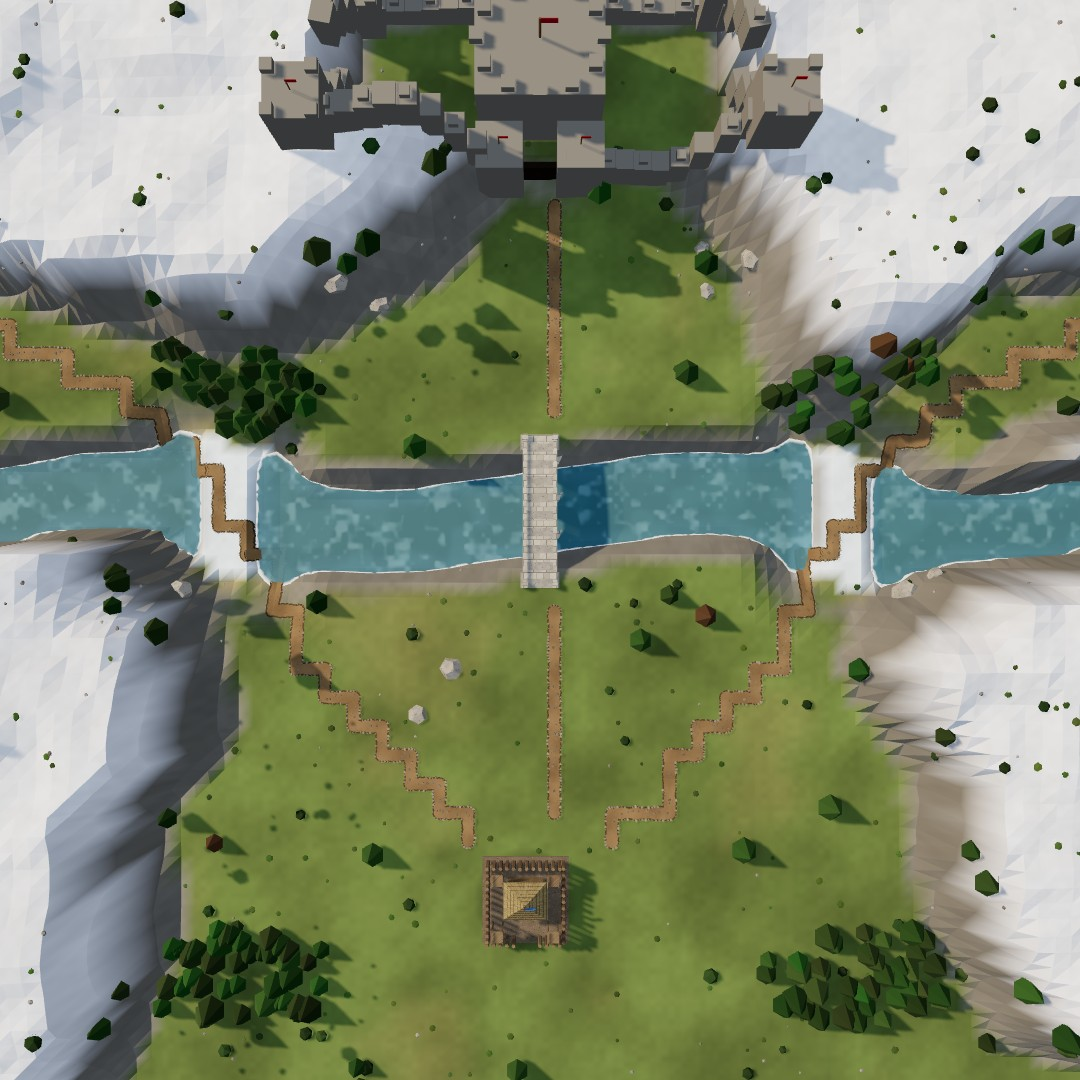
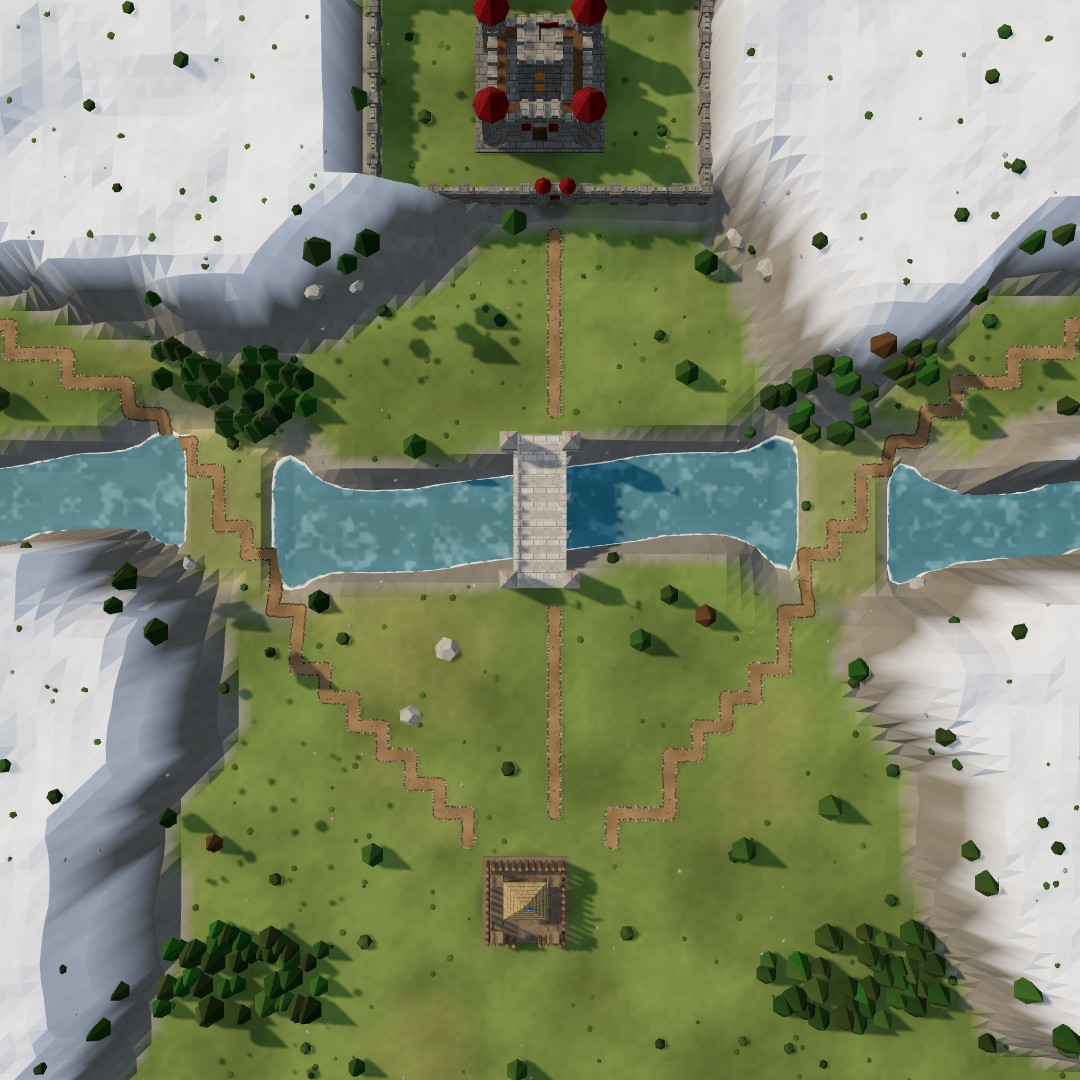
Boss stages: 7 nights, 10-minute first day; enemy forts from darkened castle/wall/gate models; raiders round both sides of the keep; grand bridge and plain land crossings on Warlord's Hold; bosses in the gallery
Claude-Session: https://claude.ai/code/session_01AE8sRRsVdpH9ETfQvtppox

diff --git a/index.html b/index.html
@@ -658,19 +658,24 @@ const MAP_RULES = {
                     { spear: [5, 6, 3], sword: [3, 5, 1], archer: [4, 4], xbow: [3, 1], lancer: [5, 4], rider: [4, 3, 1], ram: [1], ballista: [1] },
                     { spear: [5, 8, 4], sword: [3, 5, 3], archer: [4, 4, 1], xbow: [3, 3], lancer: [5, 4, 3], rider: [4, 4, 3], catapult: [0, 1], ram: [0, 1] }],
             day: [420, 120, 120, 120, 120], spawnGap: .8, res: { gold: 50, wood: 30, stone: 0, food: 30 } },
-  // Raider Keep (stage 11, boss, an 80 m map): everything pours out of the keep's gate; the Raider Chief at the tail of night 5
+  // Raider Keep (stage 11, boss, an 80 m map): seven nights after a 10-minute first day (Jack); round both sides of the keep and out of its gate;
+  // the Raider Chief at the tail of night 7
   keep: { waves: [{ spear: [8, 4], sword: [4, 2], archer: [4, 1], lancer: [3] }, { spear: [8, 6], sword: [4, 3], archer: [4, 2], xbow: [3, 1], lancer: [3, 1], rider: [2] },
                   { spear: [6, 7, 2], sword: [4, 4, 1], archer: [4, 3], xbow: [3, 2], lancer: [4, 2], rider: [2, 1], ram: [1], ballista: [1] },
                   { spear: [5, 8, 3], sword: [3, 5, 2], archer: [4, 4, 1], xbow: [3, 3], lancer: [4, 3], rider: [3, 2], catapult: [1], ram: [0, 1], ballista: [0, 1] },
-                  { spear: [4, 8, 5], sword: [3, 5, 4], archer: [3, 4, 3], xbow: [3, 3, 2], lancer: [4, 3, 2], rider: [3, 3, 2], catapult: [0, 1], ram: [0, 1], ballista: [0, 0, 1], chief: [0, 0, 1] }],
-          day: [420, 120, 120, 120, 120], spawnGap: .8, res: { gold: 50, wood: 30, stone: 0, food: 30 } },
+                  { spear: [4, 8, 5], sword: [3, 5, 4], archer: [3, 4, 3], xbow: [3, 3, 2], lancer: [4, 3, 2], rider: [3, 3, 2], catapult: [0, 1], ram: [0, 1], ballista: [0, 0, 1] },
+                  { spear: [3, 8, 6], sword: [2, 5, 5], archer: [3, 4, 4], xbow: [2, 3, 3], lancer: [3, 3, 3], rider: [2, 3, 3], catapult: [0, 1, 1], ram: [0, 1, 1], ballista: [0, 1, 1] },
+                  { spear: [2, 8, 8], sword: [2, 5, 6], archer: [2, 4, 5], xbow: [2, 3, 4], lancer: [2, 3, 4], rider: [2, 3, 4], catapult: [0, 1, 1], ram: [0, 1, 1], ballista: [0, 1, 1], chief: [0, 0, 1] }],
+          day: [600, 120, 120, 120, 120, 120, 120], spawnGap: .8, res: { gold: 50, wood: 30, stone: 0, food: 30 } },
   // Warlord's Hold (stage 12, final boss, 80 m): out of the hold's gate, from night 3 the west pass, from night 4 the east pass;
-  // the Warlord and his mounted guard (tier-3 horse swords) on the last night
+  // seven nights after a 10-minute first day (Jack); the Warlord and his mounted guard (tier-3 horse swords) on night 7
   hold: { waves: [{ spear: [8, 5], sword: [4, 3], archer: [4, 2], xbow: [2], lancer: [3, 1] }, { spear: [8, 7], sword: [4, 4], archer: [4, 3], xbow: [3, 1], lancer: [4, 1], rider: [2, 1], ram: [1] },
                   { spear: [6, 8, 3], sword: [4, 5, 2], archer: [4, 4, 1], xbow: [3, 3], lancer: [4, 3], rider: [3, 2], ballista: [1], catapult: [1] },
                   { spear: [5, 8, 4], sword: [3, 5, 3], archer: [4, 4, 2], xbow: [3, 3, 1], lancer: [4, 3, 1], rider: [3, 3, 1], catapult: [0, 1], ram: [0, 1], ballista: [0, 1] },
-                  { spear: [4, 8, 6], sword: [3, 6, 5], archer: [3, 5, 3], xbow: [3, 3, 2], lancer: [4, 4, 2], rider: [2, 3, 6], catapult: [0, 1, 1], ram: [0, 0, 1], ballista: [0, 0, 1], warlord: [0, 0, 1] }],
-          day: [420, 120, 120, 120, 120], spawnGap: .75, res: { gold: 50, wood: 30, stone: 0, food: 30 } },
+                  { spear: [4, 8, 6], sword: [3, 6, 5], archer: [3, 5, 3], xbow: [3, 3, 2], lancer: [4, 4, 2], rider: [2, 3, 2], catapult: [0, 1, 1], ram: [0, 0, 1], ballista: [0, 0, 1] },
+                  { spear: [3, 8, 8], sword: [2, 6, 6], archer: [3, 5, 4], xbow: [2, 3, 3], lancer: [3, 4, 3], rider: [2, 3, 3], catapult: [0, 1, 1], ram: [0, 1, 1], ballista: [0, 1, 1] },
+                  { spear: [2, 8, 10], sword: [2, 6, 7], archer: [2, 5, 5], xbow: [2, 3, 4], lancer: [2, 4, 4], rider: [2, 3, 8], catapult: [0, 1, 2], ram: [0, 1, 1], ballista: [0, 1, 1], warlord: [0, 0, 1] }],
+          day: [600, 120, 120, 120, 120, 120, 120], spawnGap: .75, res: { gold: 50, wood: 30, stone: 0, food: 30 } },
 };
 // campaign stops' own maps: the buildings each one has (the stop's and every earlier stop's), and where it sits on the overview
 const CAMP_MAPS = {
@@ -916,9 +921,9 @@ function plainsHeight(x, z) {
 const inPoly = (P, x, z) => { let c = false; for (let i = 0, j = P.length - 1; i < P.length; j = i++) if ((P[i][1] > z) !== (P[j][1] > z) && x < (P[j][0] - P[i][0]) * (z - P[i][1]) / (P[j][1] - P[i][1]) + P[i][0]) c = !c; return c; };
 // Raider Keep (stage 11, an 80 m map): the raiders' keep on a rocky rise at the top behind a dry ditch (open at the gate), two roads
 // from its gate through a burned village and dead woods to the town at the bottom; reddish ground in the north, scorched in the middle
-const KEEP_POLY = [[30, 11], [40, 7], [50, 11], [52, 20], [40, 24], [28, 20]], KEEP_GATE = [40, 24];
+const KEEP_POLY = [[28, 8], [52, 8], [52, 24], [28, 24]], KEEP_GATE = [41, 23];   // the fort's cells a 14–25, b 4–11; its gate cell (20, 11)
 const KEEP_DITCH = smoothPts([[21, 23], [30, 28], [40, 29.5], [50, 28], [59, 23]]);
-const KEEP_ROADS = [smoothPts([[40, 25], [39, 33], [33, 40], [30, 47], [33, 54], [38, 59], [40, 62]]), smoothPts([[40, 25], [45, 33], [52, 38], [56, 47], [52, 54], [46, 59], [42, 62]])];
+const KEEP_ROADS = [smoothPts([[41, 25], [39, 33], [33, 40], [30, 47], [33, 54], [38, 59], [40, 62]]), smoothPts([[41, 25], [45, 33], [52, 38], [56, 47], [52, 54], [46, 59], [42, 62]])];
 const KEEP_RUINS = [[25, 40], [28, 37], [56, 38], [60, 41], [42, 42], [45, 45]];
 const KEEP_RED = new THREE.Color('#7d4d3c'), KEEP_ASH = new THREE.Color('#6b5d45');
 function keepHeight(x, z) {
@@ -931,23 +936,22 @@ function keepHeight(x, z) {
 }
 // Warlord's Hold (stage 12, final boss, 80 m): snowy mountains round the north and both sides, the hold on a crag at the top, a river
 // across the middle (a stone bridge on the gate's road, frozen crossings where the two mountain passes come down), pines on the slopes
-const HOLD_POLY = [[28, 4.5], [52, 4.5], [54, 15], [26, 15]], HOLD_GATE = [40, 15];
+const HOLD_POLY = [[28, 2], [52, 2], [52, 18], [28, 18]], HOLD_GATE = [41, 17];   // the hold's cells a 14–25, b 1–8; its gate cell (20, 8)
 const HOLD_MTNS = [[14, 12, 20, 16, 1], [66, 12, 20, 16, 2], [6, 52, 11, 23, 3], [74.5, 52, 11, 23, 4]];
 const HOLD_RIVER = smoothPts([[-1, 38], [12, 36], [26, 40], [40, 38], [54, 36], [66, 40], [81, 38]]);
 const HOLD_PASSES = [smoothPts([[-1, 25], [8, 28], [15, 33], [20, 42], [24, 49], [30, 56], [35, 61]]), smoothPts([[81, 25], [72, 28], [65, 33], [60, 42], [56, 49], [50, 56], [45, 61]])];
-const HOLD_ROADS = [[[40, 16], [40, 33]], [[40, 43], [40, 60]], ...HOLD_PASSES];
-const HOLD_ICE = [17.6, 61.8],   // where the two passes cross the river
-  ICE_C = new THREE.Color('#dfe9ee');
+const HOLD_ROADS = [[[41, 19], [40.5, 26], [40, 33]], [[40, 43], [40, 60]], ...HOLD_PASSES];
+const HOLD_ICE = [17.6, 61.8];   // where the two passes cross the river: a plain land crossing (a ford of grass and earth)
 const holdMtn = (x, z) => Math.max(...HOLD_MTNS.map(([cx, cz, rx, rz, sd]) => 1 - sstep(.75, 1.05, blobD(x, z, [cx, cz, rx, rz], sd)))) * sstep(3, 6, Math.min(...HOLD_PASSES.map(p => polyDist(p, x, z))));
 const holdOpen = (x, z) => holdMtn(x, z) < .5;
 const holdRiverZ = x => { const P = HOLD_RIVER; for (let i = 0; i < P.length - 1; i++) if (x >= P[i][0] && x <= P[i + 1][0]) return lerp(P[i][1], P[i + 1][1], (x - P[i][0]) / (P[i + 1][0] - P[i][0])); return 38; };
 function holdHeight(x, z) {
   let h = 2.4 + 1.3 * fbm(x * .05, z * .05);
   h += holdMtn(x, z) * (9 + 12 * fbm(x * .07 + 5, z * .07 + 9));
-  h += 3.2 * (1 - sstep(.4, 1.1, blobD(x, z, [40, 9.5, 15, 9.5], 6)));
+  h += 3.2 * (1 - sstep(.4, 1.1, blobD(x, z, [40, 10, 16, 11], 6)));
   if (inPoly(HOLD_POLY, x, z)) h = 6 + .1 * fbm(x * .3, z * .3);
   h = lerp(3 + (h - 3) * .35, h, sstep(6, 11, Math.hypot(x - KX, z - KZ)));
-  const fd = Math.min(...HOLD_ICE.map(f => Math.abs(x - f))), ice = sstep(3, 1.6, fd), ramp = sstep(7.5, 3.5, fd);
+  const fd = Math.min(...HOLD_ICE.map(f => Math.abs(x - f))), ice = sstep(4.2, 2.6, fd), ramp = sstep(9, 4.5, fd);
   const d = polyDist(HOLD_RIVER, x, z), river = lerp(-1.3, h, lerp(sstep(2.2, 4.6, d), sstep(2.4, 9, d), ramp));
   return d < 5 ? Math.max(river, lerp(river, .6 + .05 * vnoise(x * .9, z * .9), ice)) : river;
 }
@@ -1012,7 +1016,7 @@ const bridgeCell = new Uint8Array(N_MAX * N_MAX), BRIDGE_RISE = .45, DECK_W = 1.
 // where each map's bridges cross: a start point and a direction, marched along until the river is crossed
 function bridgeRays() {
   if (MAP === 'pass' || MAP === 'vale' || MAP === 'cross' || MAP === 'watch' || MAP === 'dune' || MAP === 'crag' || MAP === 'plains' || MAP === 'keep') return [];
-  if (MAP === 'hold') { const z0 = holdRiverZ(40); return [{ ox: 40, oz: z0 - 9, dx: 0, dz: 1, stone: true }]; }
+  if (MAP === 'hold') { const z0 = holdRiverZ(40); return [{ ox: 40, oz: z0 - 9, dx: 0, dz: 1, stone: true, grand: true, w: 3.2 }]; }
   if (MAP === 'mere') return [MERE_BRIDGE];
   if (MAP === 'ford') return [{ ox: FORD_BRIDGE_X, oz: fordRiverZ(FORD_BRIDGE_X) - 10, dx: 0, dz: 1, stone: true }];
   if (MAP === 'bend') return BEND_BRIDGES.map(([ox, oz, dx, dz]) => ({ ox, oz, dx, dz }));
@@ -1038,7 +1042,7 @@ function genBridges() {
     while (a > sA - 6 && !flat(a)) a -= .2;
     while (c < sB + 6 && !flat(c)) c += .2;
     a -= .3; c += .3;
-    const b = { x0: ray.ox + ray.dx * a, z0: ray.oz + ray.dz * a, dx: ray.dx, dz: ray.dz, L: c - a, ends: new Set(), stone: !!ray.stone };
+    const b = { x0: ray.ox + ray.dx * a, z0: ray.oz + ray.dz * a, dx: ray.dx, dz: ray.dz, L: c - a, ends: new Set(), stone: !!ray.stone, grand: !!ray.grand, w: ray.w };
     b.ex = b.x0 + b.dx * b.L; b.ez = b.z0 + b.dz * b.L;   // its far (here: southern) end
     b.h0 = hAt(b.x0, b.z0) + .05; b.h1 = hAt(b.x0 + b.dx * b.L, b.z0 + b.dz * b.L) + .05;
     b.mx = b.x0 + b.dx * b.L / 2; b.mz = b.z0 + b.dz * b.L / 2;
@@ -1050,7 +1054,7 @@ function genBridges() {
   }
 }
 const bridgeT = (b, x, z) => ((x - b.x0) * b.dx + (z - b.z0) * b.dz) / b.L, bridgeW = (b, x, z) => (z - b.z0) * b.dx - (x - b.x0) * b.dz;
-const onDeck = (b, x, z) => { const t = bridgeT(b, x, z); return t >= 0 && t <= 1 && Math.abs(bridgeW(b, x, z)) < DECK_W / 2; };
+const onDeck = (b, x, z) => { const t = bridgeT(b, x, z); return t >= 0 && t <= 1 && Math.abs(bridgeW(b, x, z)) < (b.w || DECK_W) / 2; };
 function deckY(b, t) { t = clamp(t, 0, 1); return lerp(b.h0, b.h1, t) + BRIDGE_RISE * Math.sin(Math.PI * t); }
 // ground height for a unit: the deck where it stands on one, else the terrain
 function walkY(x, z) { const i = bridgeCell[cellAt(x, z)], h = hAt(x, z); if (!i) return h; const b = bridges[i - 1]; return onDeck(b, x, z) ? Math.max(h, deckY(b, bridgeT(b, x, z))) : h; }
@@ -1197,7 +1201,7 @@ function recolor() {
     tmpC.lerp(C.sand, sstep(.8, .2, h)); tmpC.lerp(C.bed, sstep(-.1, -.8, h));
     if (MAP === 'dune') { const od = oasisD(i, j); tmpC.lerp(C.dry, sstep(.68, .95, od) * .75); tmpC.lerp(DUNE_SAND, sstep(.86, 1.14, od) * .92); for (const m of DUNE_MESAS) tmpC.lerp(DUNE_ROCK, sstep(1.12, .95, ellD(i, j, m)) * .8); }   // sand beyond the oasis; red-brown rock mesas
     if (MAP === 'keep') { tmpC.lerp(KEEP_ASH, sstep(62, 40, j) * .55); tmpC.lerp(KEEP_RED, sstep(40, 12, j) * .7); }   // red north, scorched middle
-    if (MAP === 'hold') { tmpC.lerp(C.dry, .2); const fd = Math.min(...HOLD_ICE.map(f => Math.abs(i - f))); if (fd < 3 && polyDist(HOLD_RIVER, i, j) < 4.5) tmpC.lerp(ICE_C, .85); }   // cold grass, the frozen crossings
+    if (MAP === 'hold') tmpC.lerp(C.dry, .2);   // cold grass
     if (MAP === 'mere') tmpC.lerp(MERE_C, marshW(i, j) * (.7 + .3 * fbm(i * .3, j * .3)));   // the marsh: brownish olive, patchy
     if (MAP === 'plains') tmpC.lerp(PLAINS_C, .35);              // the plains: a fresh, lighter green
     if (MAP === 'crag') tmpC.lerp(C.rock, (1 - sstep(.75, 1.05, blobD(i, j, CRAG_ROCK, 2))) * .85);   // the grey crag
@@ -2537,7 +2541,7 @@ function makeBridge(b) {
 // an old stone bridge (Stonebridge): a paved deck on a solid stone span, low parapets along both sides, round piers standing in the
 // water with cutwaters, stone landings on each bank; the same deck line (deckY) the units walk on
 function makeStoneBridge(b) {
-  const g = new THREE.Group(), L = b.L, W = DECK_W;
+  const g = new THREE.Group(), L = b.L, W = b.w || DECK_W;
   const yAt = z => deckY(b, (z + L / 2) / L), wx = z => b.mx + b.dx * z, wz = z => b.mz + b.dz * z;
   const piece = (z0, z1, w, h, dy, m, x = 0) => {      // a block following the deck from z0 to z1, its top dy above the deck
     const y0 = yAt(z0), y1 = yAt(z1), len = Math.hypot(z1 - z0, y1 - y0) + .02, o = box(w, h, len, m, x, (y0 + y1) / 2 + dy - h / 2, (z0 + z1) / 2);
@@ -2560,6 +2564,14 @@ function makeStoneBridge(b) {
     const top = yAt(z) - .5, bot = gy - .4, ph = top - bot;
     g.add(box(W + .3, ph, .7, M.stone2, 0, bot + ph / 2, z));
     const cw = cyl(.5, .5, ph, 4, M.stone2, 0, bot + ph / 2, z); cw.scale.set(1.25, 1, .5); cw.rotation.y = Math.PI / 4; cw.position.x = (W / 2 + .2); g.add(cw);
+  }
+  if (b.grand) {                                   // the Warlord's bridge: tall towers at both ends with red flags, merlons on the parapets
+    for (const s of [-1, 1]) for (const x of [-1, 1]) {
+      const z = s * (L / 2 - .6), y = yAt(z), tw = box(1.1, 3.2, 1.1, M.stone2, x * (W / 2 + .5), y + 1.4, z); g.add(tw);
+      const cap = new THREE.Mesh(new THREE.ConeGeometry(.85, 1.1, 4), M.plainStone); cap.position.set(x * (W / 2 + .5), y + 3.55, z); cap.rotation.y = Math.PI / 4; g.add(cap);
+      g.add(cyl(.035, .035, 1.2, 5, M.timber, x * (W / 2 + .5), y + 4.6, z)); const f = box(.03, .34, .55, raiderRed, x * (W / 2 + .5), y + 4.95, z - .28); g.add(f);
+    }
+    for (let z = -L / 2 + 1.4; z < L / 2 - 1.3; z += .9) for (const x of [-1, 1]) g.add(box(.26, .2, .34, M.stone2, x * (W / 2 + .1), yAt(z) + .74, z));
   }
   g.traverse(o => { if (o.isMesh) o.castShadow = o.receiveShadow = true; });
   g.position.set(b.mx, 0, b.mz); g.rotation.y = Math.atan2(b.dx, b.dz);
@@ -4694,9 +4706,9 @@ function edgePoint() {
   if (MAP === 'keep' || MAP === 'hold') {
     // Raider Keep: everyone out of the keep's gate; Warlord's Hold: out of the hold's gate, from night 3 the west pass, from night 4 the east
     const r = Math.random(), W = PH.wave;
-    const side = MAP === 'keep' ? 'g' : (W >= 4 && r < .25 ? 'e' : W >= 3 && r < .5 ? 'w' : 'g');
+    const side = MAP === 'keep' ? (r < .4 ? 'kl' : r < .8 ? 'kr' : 'g') : (W >= 4 && r < .25 ? 'e' : W >= 3 && r < .5 ? 'w' : 'g');   // the keep: round its west and east sides (Jack), a few out of the gate
     const G = MAP === 'keep' ? KEEP_GATE : HOLD_GATE;
-    const pick = side === 'w' ? () => [1.2, 24 + Math.random() * 2.5] : side === 'e' ? () => [SIZE - 1.2, 24 + Math.random() * 2.5] : () => [G[0] - 1.5 + Math.random() * 3, G[1] + 2 + Math.random() * 1.5];
+    const pick = side === 'kl' ? () => [12 + Math.random() * 4, 14 + Math.random() * 6] : side === 'kr' ? () => [64 + Math.random() * 4, 14 + Math.random() * 6] : side === 'w' ? () => [1.2, 24 + Math.random() * 2.5] : side === 'e' ? () => [SIZE - 1.2, 24 + Math.random() * 2.5] : () => [G[0] - 1.5 + Math.random() * 3, G[1] + 2 + Math.random() * 1.5];
     for (const needRoute of [true, false]) for (let n = 0; n < 60; n++) {
       const [x, z] = pick();
       if (canStand(x, z, 2) && cellPass(cellAt(x, z), 2) && (!needRoute || !dp || findPath(x, z, dp.x, dp.z, 2))) return { x, z };
@@ -6526,49 +6538,42 @@ function placeRuin() {
 // gate facing the town, red flags, the burned village's blackened ruins) and the Warlord's hold (curtain walls with merlons, four
 // corner towers, a tall keep, a gatehouse, red flags)
 let bossMesh = null;
-const charM = mat('#2b231d'), keepWoodM = mat('#4e3a2a'), holdStoneM = mat('#77736b');
-function redFlag(g, x, y, z, k = 1) { g.add(cyl(.04 * k, .04 * k, 1.6 * k, 5, M.timber, x, y + .8 * k, z)); const f = box(.6 * k, .38 * k, .03, raiderRed, x + .3 * k, y + 1.4 * k, z); f.castShadow = true; g.add(f); }
+const charM = mat('#2b231d');
+// the enemy forts are the game's own castle, walls and gate (Jack): a ring of wall cells with a gate in the south side and the castle
+// in the yard, every material darkened and the town's blue turned the raiders' red (darkFort), so they never read as the player's
+const FORT = { keep: { a0: 14, a1: 25, b0: 4, b1: 11, gate: 20, tier: 1, castle: 2, k: 1.3, cx: 40, cz: 16 },
+  hold: { a0: 14, a1: 25, b0: 1, b1: 8, gate: 20, tier: 3, castle: 3, k: 1.45, cx: 40, cz: 9.5 } };
+const darkMats = new Map();
+function darkFort(g) {
+  g.traverse(o => {
+    if (!o.isMesh || Array.isArray(o.material)) return;
+    let m = darkMats.get(o.material);
+    if (!m) {
+      m = o.material.clone(); m.onBeforeCompile = o.material.onBeforeCompile; if (o.material.customProgramCacheKey) m.customProgramCacheKey = o.material.customProgramCacheKey;
+      const c = m.color; if (c) { if (c.b > c.r * 1.3 && c.b > c.g) c.set('#6a1612'); else c.multiplyScalar(.48); }
+      darkMats.set(o.material, m);
+    }
+    o.material = m; o.castShadow = o.receiveShadow = true;
+  });
+  return g;
+}
 function placeBossScenery() {
   if (bossMesh) { scene.remove(bossMesh); bossMesh = null; }
   if (MAP !== 'keep' && MAP !== 'hold') return;
-  const g = new THREE.Group(), Y = (x, z) => hAt(x, z);
-  const P = MAP === 'keep' ? KEEP_POLY : HOLD_POLY, Gt = MAP === 'keep' ? KEEP_GATE : HOLD_GATE;
-  for (let i = 0; i < P.length; i++) {
-    const [ax, az] = P[i], [bx, bz] = P[(i + 1) % P.length], L = Math.hypot(bx - ax, bz - az);
-    for (let t = 0; t <= L; t += MAP === 'keep' ? .42 : 1.2) {
-      const x = ax + (bx - ax) * t / L, z = az + (bz - az) * t / L;
-      if (Math.hypot(x - Gt[0], z - Gt[1]) < 1.8) continue;   // the gate's gap
-      if (MAP === 'keep') { const hgt = 2.3 + hash(x * 3, z * 5) * .5, p = cyl(.21, .23, hgt, 6, keepWoodM, x, Y(x, z) + hgt / 2 - .3, z); p.castShadow = true; g.add(p); }
-      else { const w = box(1.3, 3.6, 1.3, holdStoneM, x, Y(x, z) + 1.5, z); w.rotation.y = -Math.atan2(bz - az, bx - ax); g.add(w); if (Math.round(t / 1.2) % 2 === 0) g.add(box(.6, .6, .6, holdStoneM, x, Y(x, z) + 3.6, z)); }
-    }
-    if (MAP === 'hold') { const tw = box(3.2, 6, 3.2, holdStoneM, ax, Y(ax, az) + 2.7, az); g.add(tw); for (const [dx, dz] of [[-1, -1], [1, -1], [-1, 1], [1, 1]]) g.add(box(.7, .7, .7, holdStoneM, ax + dx * 1.25, Y(ax, az) + 6, az + dz * 1.25)); redFlag(g, ax, Y(ax, az) + 5.7, az); }
-    else { const tw = box(2, .2, 2, keepWoodM, ax, Y(ax, az) + 2.2, az); g.add(tw); for (const [dx, dz] of [[-1, -1], [1, -1], [-1, 1], [1, 1]]) g.add(cyl(.12, .12, 2.4, 5, keepWoodM, ax + dx * .85, Y(ax, az) + 1.1, az + dz * .85)); redFlag(g, ax, Y(ax, az) + 2.3, az, .8); }
+  const F = FORT[MAP], g = new THREE.Group(), Y = (x, z) => hAt(x, z);
+  const on = (a, b) => a >= F.a0 && a <= F.a1 && b >= F.b0 && b <= F.b1 && (a === F.a0 || a === F.a1 || b === F.b0 || b === F.b1);
+  for (let b = F.b0; b <= F.b1; b++) for (let a = F.a0; a <= F.a1; a++) {
+    if (!on(a, b)) continue;
+    const mask = (on(a, b - 1) ? 1 : 0) | (on(a + 1, b) ? 2 : 0) | (on(a, b + 1) ? 4 : 0) | (on(a - 1, b) ? 8 : 0), x = (a + .5) * CELL, z = (b + .5) * CELL;
+    const m = makeModel(a === F.gate && b === F.b1 ? 'gate' : 'wall', F.tier, false, mask, 0); m.position.set(x, Y(x, z), z); g.add(m);
   }
-  const [gx, gz] = Gt;
-  if (MAP === 'keep') {
-    for (const sx of [-1, 1]) g.add(cyl(.3, .3, 3.2, 6, keepWoodM, gx + sx * 1.6, Y(gx, gz) + 1.3, gz));
-    g.add(box(3.6, .35, .4, keepWoodM, gx, Y(gx, gz) + 2.8, gz));
-    const cx = 40, cz = 15, y = Y(cx, cz);
-    g.add(box(5, 5.5, 5, holdStoneM, cx, y + 2.6, cz)); g.add(box(5.8, .5, 5.8, keepWoodM, cx, y + 5.5, cz));
-    const rf = new THREE.Mesh(new THREE.ConeGeometry(4.3, 2.4, 4), charM); rf.position.set(cx, y + 6.9, cz); rf.rotation.y = Math.PI / 4; g.add(rf);
-    redFlag(g, cx, y + 8, cz, 1.4);
-    g.add(box(7, 2.8, 4, keepWoodM, cx - 6.5, Y(cx - 6.5, cz + 3) + 1.3, cz + 3));
-    const hr = new THREE.Mesh(new THREE.ConeGeometry(4.6, 1.6, 4), charM); hr.position.set(cx - 6.5, Y(cx - 6.5, cz + 3) + 3.4, cz + 3); hr.rotation.y = Math.PI / 4; hr.scale.z = .6; g.add(hr);
-    g.add(box(2.4, 1.2, .4, M.dark, gx, Y(gx, gz) + .6, gz - 2.2));
-    for (const [x, z] of KEEP_RUINS) {   // the burned village: blackened stubs of walls and a fallen beam
-      const yy = Y(x, z);
-      for (let i = 0; i < 4; i++) { const a = i * Math.PI / 2 + .3, h = .5 + hash(x + i, z) * 1.1, w = box(1.7, h, .22, charM, x + Math.cos(a) * .85, yy + h / 2 - .1, z + Math.sin(a) * .85); w.rotation.y = -a + Math.PI / 2; g.add(w); }
-      const bm = box(2, .18, .18, charM, x, yy + .4, z); bm.rotation.set(.3, hash(x, z) * 3, .4); g.add(bm);
-    }
-  } else {
-    for (const sx of [-1, 1]) { const tw = box(3, 7, 3, holdStoneM, gx + sx * 2.6, Y(gx, gz) + 3, gz); g.add(tw); redFlag(g, gx + sx * 2.6, Y(gx, gz) + 6.5, gz); }
-    g.add(box(2.4, 2.8, .4, M.dark, gx, Y(gx, gz) + 1.4, gz + .2));
-    const cx = 40, cz = 9.5, y = Y(cx, cz);
-    g.add(box(8, 9, 7, holdStoneM, cx, y + 4.3, cz));
-    for (let i = 0; i < 12; i++) { const a = i / 12 * Math.PI * 2; g.add(box(.8, .8, .8, holdStoneM, cx + Math.cos(a) * 3.9, y + 9.2, cz + Math.sin(a) * 3.4)); }
-    redFlag(g, cx, y + 8.8, cz, 1.8);
+  const K = makeModel('castle', F.castle, true, 0, 0); K.scale.setScalar(F.k); K.position.set(F.cx, Y(F.cx, F.cz), F.cz); g.add(K);
+  darkFort(g);
+  if (MAP === 'keep') for (const [x, z] of KEEP_RUINS) {   // the burned village: blackened stubs of walls and a fallen beam
+    const yy = Y(x, z);
+    for (let i = 0; i < 4; i++) { const a = i * Math.PI / 2 + .3, h = .5 + hash(x + i, z) * 1.1, w = box(1.7, h, .22, charM, x + Math.cos(a) * .85, yy + h / 2 - .1, z + Math.sin(a) * .85); w.rotation.y = -a + Math.PI / 2; g.add(w); }
+    const bm = box(2, .18, .18, charM, x, yy + .4, z); bm.rotation.set(.3, hash(x, z) * 3, .4); g.add(bm);
   }
-  g.traverse(o => { if (o.isMesh) { o.castShadow = true; o.receiveShadow = true; } });
   scene.add(g); bossMesh = g;
 }
 // paths laid along polylines, cell by cell, diagonal steps joined so they stay connected
@@ -6811,6 +6816,9 @@ function buildGallery() {
     { name: 'Rider', kit: 1, cav: 1 }, { name: 'Lancer', kit: 2, cav: 1 }, { name: 'Knight', kit: 3, cav: 1 }]);
   // raiders by tier: the same look for every kind (plain red shirt; red gambeson and iron helm; mail, red surcoat, great helm)
   for (const rt of [1, 2, 3]) people(`Raiders ${rt}`, ['spear', 'sword', 'archer', 'xbow', 'lancer', 'rider'].map(k => ({ name: `${RAIDER_NAME[k]} ${rt}`, raider: k, rt })));
+  // the bosses, drawn at their own size
+  people('Bosses', [{ name: 'Raider Chief', raider: 'chief', rt: 3 }, { name: 'Warlord', raider: 'warlord', rt: 3 }]);
+  gPeople.slice(-2).forEach(p => p.g.scale.setScalar(ENEMY[p.raider].boss));
   // raider siege engines by tier, each pushed by two of its crew
   row('Raider siege', 3, zc => ['ballista', 'catapult', 'ram'].forEach((k, j) => [1, 2, 3].forEach(rt => {
     const i = j * 3 + rt - 1, x = 6 + i * 4.4, p = makeRaider(k, rt);

diff --git a/CLAUDE.md b/CLAUDE.md
@@ -79,9 +79,9 @@ The whole game is currently one self-contained file: `index.html` (~165 KB, thre
 - **Horsefields** (`MAP` 'plains', Stage 10; from `design/stages/stage10-horsefields.svg`): open plains (`plainsHeight`: gentle, two low swells; grass tinted fresh `PLAINS_C`), a stream across the south-west corner (`PLAINS_STREAM`), three copses and the odd lone tree, little stone; the castle in the middle (`KX/KZ` 28,28) with straight roads out to the north, west and east (`PLAINS_ROADS`). Raiders down the north road (x 24.5–31.5); from night 2 some from the west edge, from night 3 some from the east edge too (z 23.5–29.5; `edgePoint` splits 30% east, 30% west, 40% north once all three are open); horsemen in numbers every night. Rules (`MAP_RULES.plains`): 5 nights, spawn gap .8 s, start gold 50 wood 30 stone 0 food 30. Buildings: Meadowmere's plus the stables (`prefer: { barracks: 'stables' }`).
 - **Stages 7–10** all have a 7-minute first day (`day[0]` 420 s, Jack's call) and waves about 30% bigger than first written (every non-siege count × 1.3, siege engines unchanged): nights of about 19/26/36/44/59 raiders on Ironwood, 20/31/36/47/63 on Siegeford, 22/34/41/55/65 on Meadowmere and 23/33/42/54/68 on Horsefields. (The per-stage notes above give the original mix.)
 - **Map size per stage** (`MAP_N`, `setMapSize(n)` at the top of `startGame`): every stage is 28 × 28 cells (56 m) except the boss stages, 40 × 40 (80 m; Jack asked for them big). `N`, `SIZE` and `V` are `let`; every buffer is allocated once at the largest size (`N_MAX` 40, `V_MAX` 81: heights, cells, regions, bridges, the tree and path-stone instances) and indexed with the current `N`/`V`; on a size change `setMapSize` re-lays the ground's vertex grid and triangles (`terrainGrid`), the Grid overlay (`gridLines`), the water plane, the sun and its shadow box, and `CAM_LIM.hi`. The water's bed texture `hTex` is always `V_MAX` wide (the shader divides by `V_MAX`).
-- **Bosses** (`ENEMY.chief`, `ENEMY.warlord`, `boss`: drawn that much bigger; always sent at tier 3; renders in `design/characters/bosses.png`): the **Raider Chief** on foot (hp 520 × 2.3, dmg 14 × 1.65, a sword and a big red round shield, a horned helm with a gold band, a long red cloak) and the **Warlord** mounted (hp 820 × 2.3, dmg 18 × 1.65, ×2 speed, a gold crown of points and a red plume on the great helm, a red heater shield rimmed in gold, the cloak, a horse in dark barding with red flank cloths and a gilded face plate); gear from `bossGear`. Both ride or march for the castle (`pickTarget`), come last of their night's column (`startNight`), get a bigger health bar, and their arrival shows a banner with their name and "Boss" and a log line.
-- **Raider Keep** (`MAP` 'keep', Stage 11, boss, 80 m; from `design/stages/stage11-raider-keep.svg`): the raiders' keep at the top (`KEEP_POLY`, flat yard on a rocky rise; `placeBossScenery`: a dark log palisade, corner platforms with red flags, a stone-and-timber tower and a hall under charred roofs, a gate facing the town at `KEEP_GATE`), a dry ditch below it open only at the gate (`KEEP_DITCH`), two roads from the gate round the burned village (`KEEP_RUINS`, blackened wall stubs) and dead trees (`bare` trees: trunks only, out of reach) to the town at the bottom (castle `KX/KZ` 41,67); ground red in the north, scorched in the middle, green in the south (`recolor`); green woods in the two south corners, plenty of stone. The keep, its yard and the ruins are scenery nobody walks or builds on (`sceneryAt`, in `canStand`, `cellPass`, `evaluate` "Occupied"). Every raider comes out of the keep's gate. Rules (`MAP_RULES.keep`): 5 nights of 20–60+ raiders with siege from night 3, the **Raider Chief** at the tail of night 5; days 420/120…; spawn gap .8 s; start gold 50 wood 30 stone 0 food 30; every building, tier 3 (win: survive; "break the keep" not built).
-- **Warlord's Hold** (`MAP` 'hold', Stage 12, final boss, 80 m; from `design/stages/stage12-warlords-hold.svg`): snowy mountains round the north and both sides (`HOLD_MTNS`, closed ground like Mountain pass's: `holdOpen` in `mapOpen`; snow from about 10.5 m on this map in `recolor`), the Warlord's stone hold on a crag at the top (`HOLD_POLY`: curtain walls with merlons, four corner towers, a tall keep, a gatehouse at `HOLD_GATE`, red flags), a river across the middle (`HOLD_RIVER`, flows west) with a stone bridge on the gate's road and two frozen crossings (`HOLD_ICE`: icy-white bars at .6 where the passes cross), two mountain passes from the side edges (`HOLD_PASSES`), pines on the lower slopes and in the south corners (out-of-reach pines up the mountains), stone at the mountains' feet; castle `KX/KZ` 39,65. Raiders out of the hold's gate; from night 3 some down the west pass, from night 4 the east too. Rules (`MAP_RULES.hold`): 5 nights, the **Warlord** and six tier-3 horse swords (his mounted guard) on the last; days 420/120…; spawn gap .75 s; start gold 50 wood 30 stone 0 food 30; every building, tier 3.
+- **Bosses** (`ENEMY.chief`, `ENEMY.warlord`, `boss`: drawn that much bigger; always sent at tier 3; renders in `design/characters/bosses.png`): the **Raider Chief** on foot (hp 520 × 2.3, dmg 14 × 1.65, a sword and a big red round shield, a horned helm with a gold band, a long red cloak) and the **Warlord** mounted (hp 820 × 2.3, dmg 18 × 1.65, ×2 speed, a gold crown of points and a red plume on the great helm, a red heater shield rimmed in gold, the cloak, a horse in dark barding with red flank cloths and a gilded face plate); gear from `bossGear`. Both ride or march for the castle (`pickTarget`), come last of their night's column (`startNight`), get a bigger health bar, and their arrival shows a banner with their name and "Boss" and a log line. Gallery row "Bosses" (drawn at their own size).
+- **Raider Keep** (`MAP` 'keep', Stage 11, boss, 80 m; from `design/stages/stage11-raider-keep.svg`): the raiders' fort at the top (`KEEP_POLY`, flat yard on a rocky rise): built from the game's own models (Jack): a ring of tier-1 palisade walls with a timber gate in the south side and a tier-2 stone keep (scaled 1.3) in the yard (`FORT`, `placeBossScenery`), every material darkened and the town's blue turned red (`darkFort`, cloned materials cached in `darkMats`), so it never reads as the player's; gate at `KEEP_GATE`, a dry ditch below it open only at the gate (`KEEP_DITCH`), two roads from the gate round the burned village (`KEEP_RUINS`, blackened wall stubs) and dead trees (`bare` trees: trunks only, out of reach) to the town at the bottom (castle `KX/KZ` 41,67); ground red in the north, scorched in the middle, green in the south (`recolor`); green woods in the two south corners, plenty of stone. The keep, its yard and the ruins are scenery nobody walks or builds on (`sceneryAt`, in `canStand`, `cellPass`, `evaluate` "Occupied"). Raiders come round both sides of the fort (Jack: spawns west and east of it, 40% each) and a few out of its gate. Rules (`MAP_RULES.keep`): **7 nights** after a **10-minute first day** (Jack), 20–75 raiders a night with siege from night 3, the **Raider Chief** at the tail of night 7; days 600/120…; spawn gap .8 s; start gold 50 wood 30 stone 0 food 30; every building, tier 3 (win: survive; "break the keep" not built).
+- **Warlord's Hold** (`MAP` 'hold', Stage 12, final boss, 80 m; from `design/stages/stage12-warlords-hold.svg`): snowy mountains round the north and both sides (`HOLD_MTNS`, closed ground like Mountain pass's: `holdOpen` in `mapOpen`; snow from about 10.5 m on this map in `recolor`), the Warlord's hold on a crag at the top (`HOLD_POLY`): the game's tier-3 battlements and gatehouse round a tier-3 castle (scaled 1.45), darkened with red roofs and flags (`darkFort`); gate at `HOLD_GATE`, a river across the middle (`HOLD_RIVER`, flows west) with a **grand stone bridge** on the gate's road (`grand: true`, `w` 3.2: a wider deck, units walk all of it (`onDeck` reads `b.w`), tall stone towers with red flags at both ends, merlons on the parapets) and two plain land crossings where the passes cross (`HOLD_ICE`, wide grassy bars at .6 with gentle banks; they were icy white at first, Jack wanted a normal pathway), two mountain passes from the side edges (`HOLD_PASSES`), pines on the lower slopes and in the south corners (out-of-reach pines up the mountains), stone at the mountains' feet; castle `KX/KZ` 39,65. Raiders out of the hold's gate; from night 3 some down the west pass, from night 4 the east too. Rules (`MAP_RULES.hold`): **7 nights** after a **10-minute first day**, the **Warlord** and eight tier-3 horse swords (his mounted guard) on night 7; days 600/120…; spawn gap .75 s; start gold 50 wood 30 stone 0 food 30; every building, tier 3.
 - **Stage town picker** (Jack's design): a stage with more decor unlocked than `DECOR_PICK`, or both buildings of a pair unlocked (`stageBoth`, picks in `localStorage['mtd-stage-pair']`, `STAGE_PAIR`, `stagePair`) (`stagePicks(map)`: Watchhill on) opens the Choose-your-town screen from its preview's Play (`showLoadPick(map)`, `stagePick`): its buildings are set (the unlocked one of each pair picked, the other locked), the decor it has unlocked are picked four of, and everything not unlocked yet shows only a padlock, no name, icon or cost (Jack's call; `LOCK_ICO`, `.ldOpt.locked`, a tap knocks `nope`); Back returns to the stage preview, Start plays. Picks per stage in `localStorage['mtd-stage-decor']` (`STAGE_DECOR`, `stageDecor(map)`: by default the newest four); `applyLoadout` trims the stage's decor to them (in `cats` order), so `?map=watch` uses them too.
 - **Tiers by stage** (`maxTier` in `CAMP_MAPS`, `tierCap()`): Stages 1–3 stay at tier 1 (no Upgrade button, `upgrade` refuses; Stage 1's guide drops its upgrade step), Stage 4 opens tier 2 (Jack moved it from Stage 3; `newTier: 2` adds a "Tier 2" card after its building cards: "Upgrades", then house housing / gold and archer damage as before → after); free play has all three.
 - Raiders pick targets by walking distance, never a straight line across water (`pickTarget` → `reachTarget`: `landField` is a breadth-first cell count over land and bridges, buildings counted as open since they break through; unreachable buildings are skipped) and route on the cell grid with `walkTo` (mode 2) toward a fixed point on the side they reach first (`e.tp`, reset on each 3 s retarget); when buildings or walls close every route, `walkTo` falls back to a mode-3 path (`cellPass` mode 3 ignores occupancy) so they walk to whatever blocks the way and break it (they used to walk straight at the target and stand at a riverbank on River isle); straight `steer` only within 3 m and over open ground (`clearLine`); `edgePoint` falls back to mode-3 routes for a walled-in town; a wall in the way (stuck or 3.5 s without progress) is attacked as before. A raider spawned a metre or so from its point never lands on ground it can't stand on (`spawnEnemy` falls back to the point itself). Spawn points (`edgePoint`) must be walkable (`cellPass` mode 2) and have a route to the castle's door (a route to the castle's centre never exists: it is inside the building), else raiders spawned on steep edge hills stood stuck.
